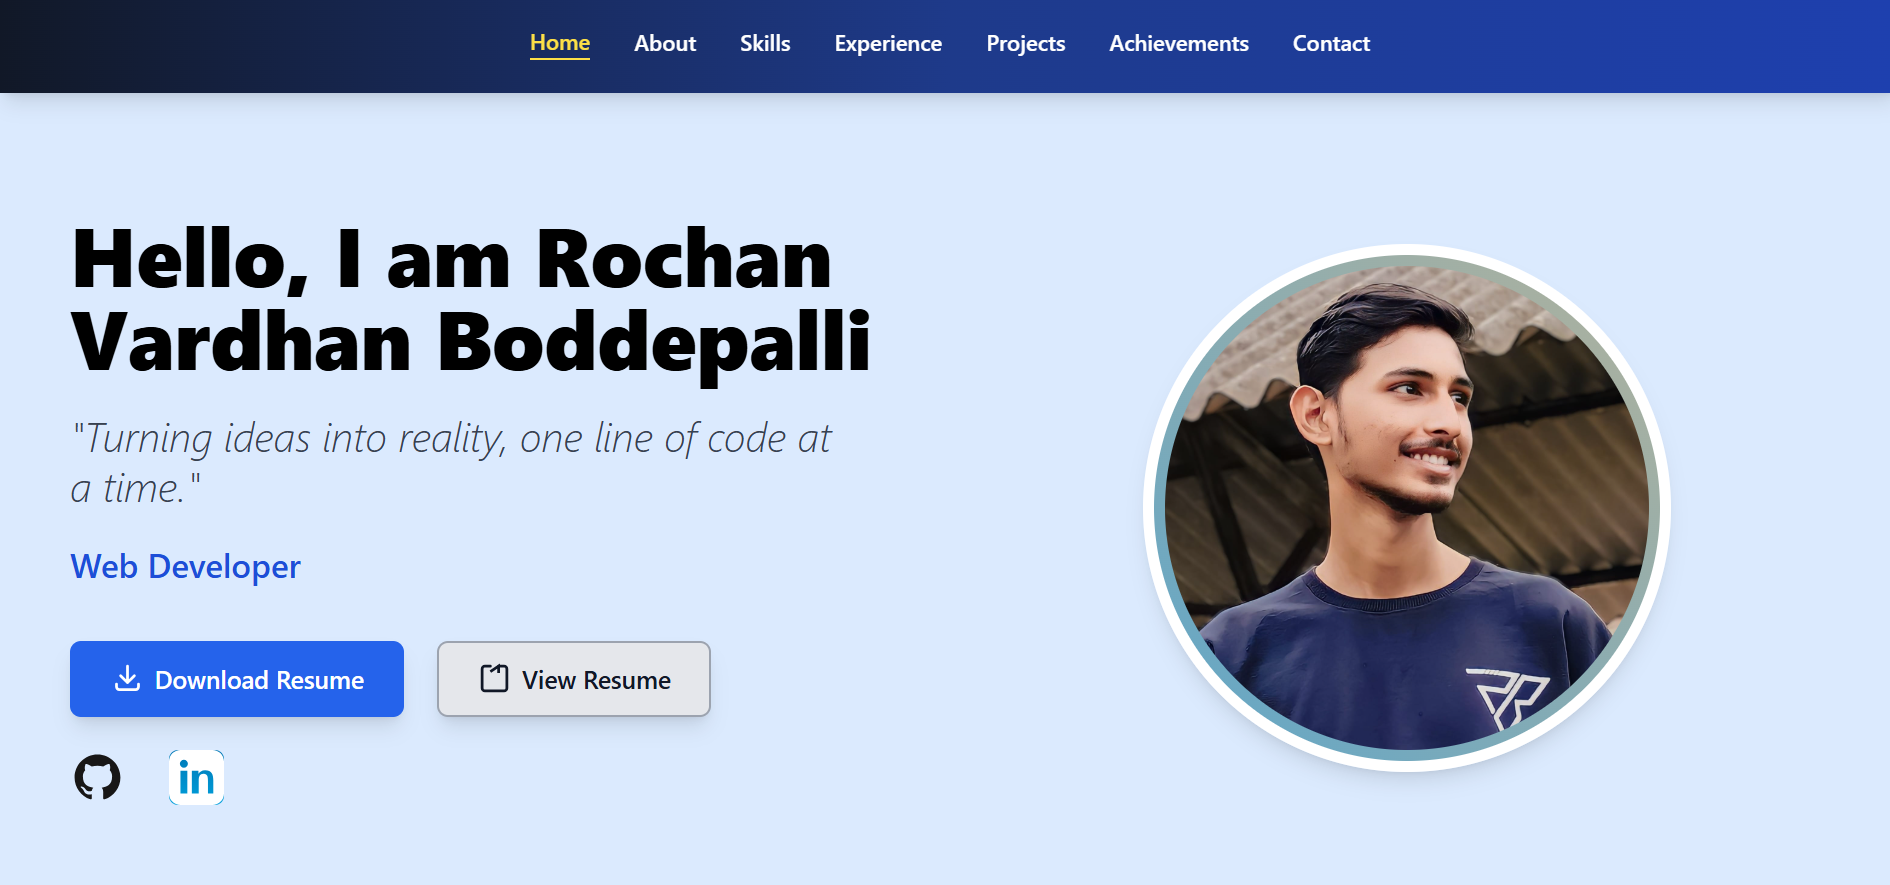
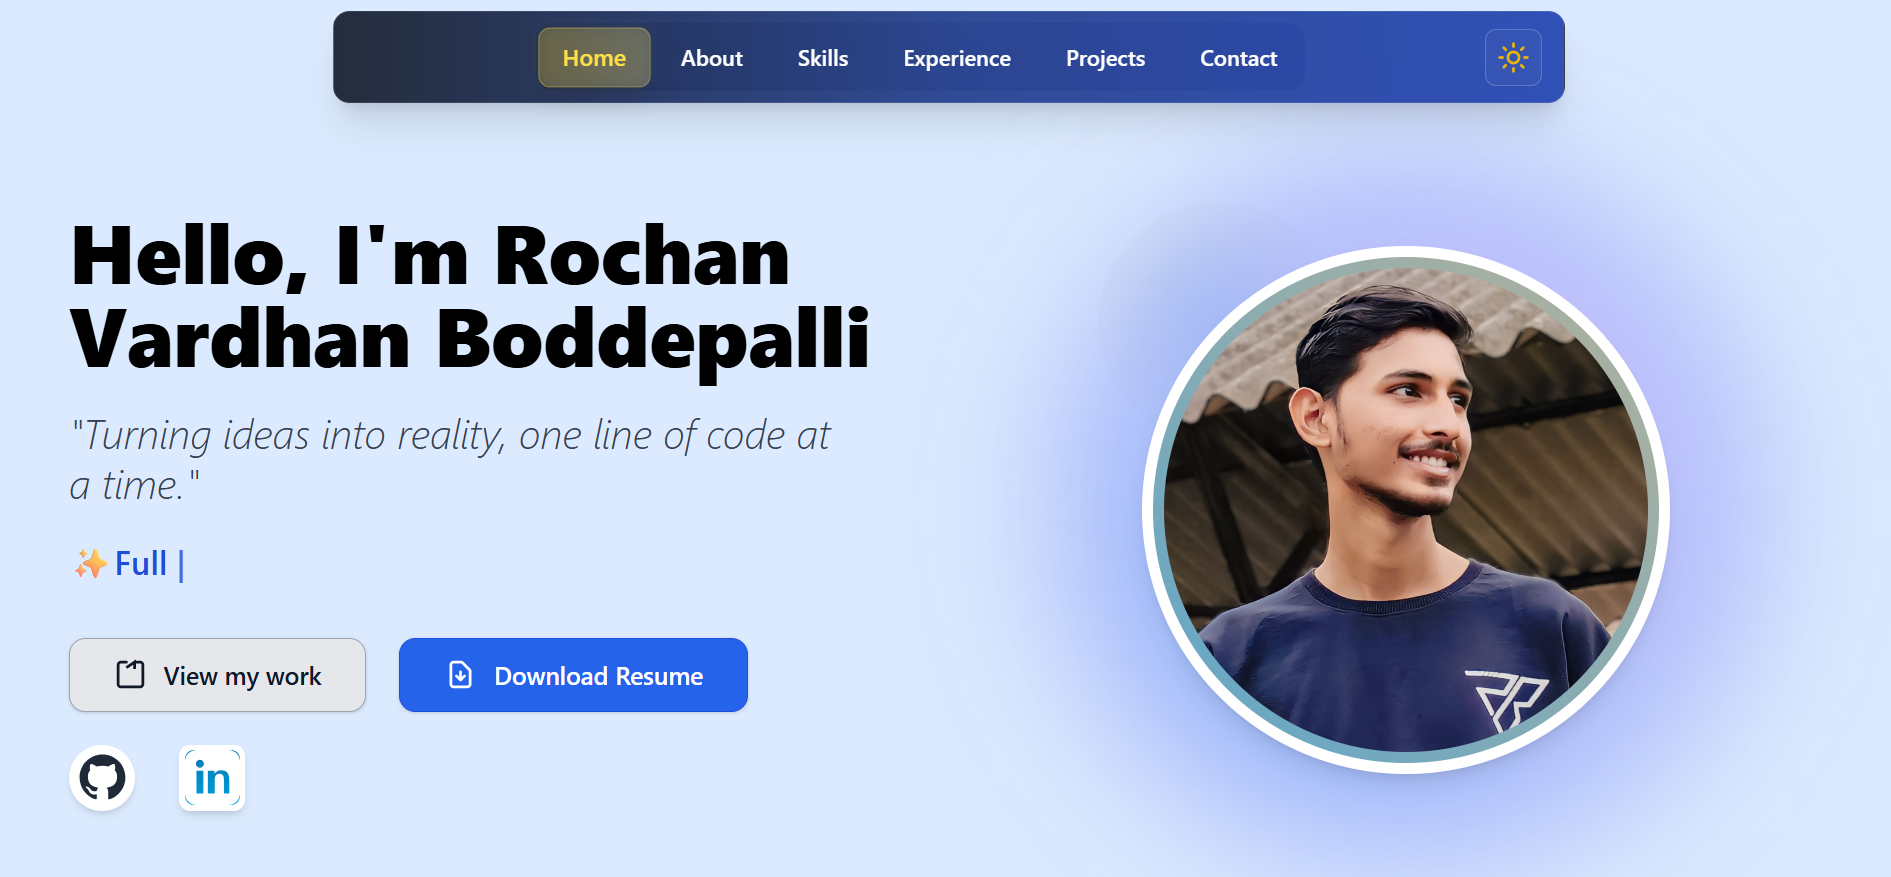
Readme file

diff --git a/README.md b/README.md
@@ -1,4 +1,25 @@
-### 🌐 Portfolio Website  
-Check out my portfolio built with React and deployed on Vercel:
+# Portfolio Website
 
-My name is Rochan vardhan
+![Portfolio Preview](./public/My%20Portfolio%20Thumbnail.png)
+
+## 🌐 Live Demo
+Check out my portfolio built with React and deployed on Vercel:
+[**View Portfolio →**](https://rochanportfolio.vercel.app)
+
+## 👋 About Me
+My name is Rochan Vardhan Boddepalli - an aspiring Full-Stack Developer passionate about turning ideas into reality, one line of code at a time.
+
+## ✨ Features
+- 🎨 Modern, responsive design with dark/light theme
+- 📱 Mobile-first approach with optimized navigation
+- ⚡ Fast performance with Vite
+- 🎯 Clean, professional UI with Tailwind CSS
+- 📧 Contact form integration
+- 🌙 Theme toggle functionality
+
+## 🛠 Built With
+- **React** - Frontend framework
+- **TypeScript** - Type safety
+- **Tailwind CSS** - Styling
+- **Vite** - Build tool
+- **Vercel** - Deployment platform
